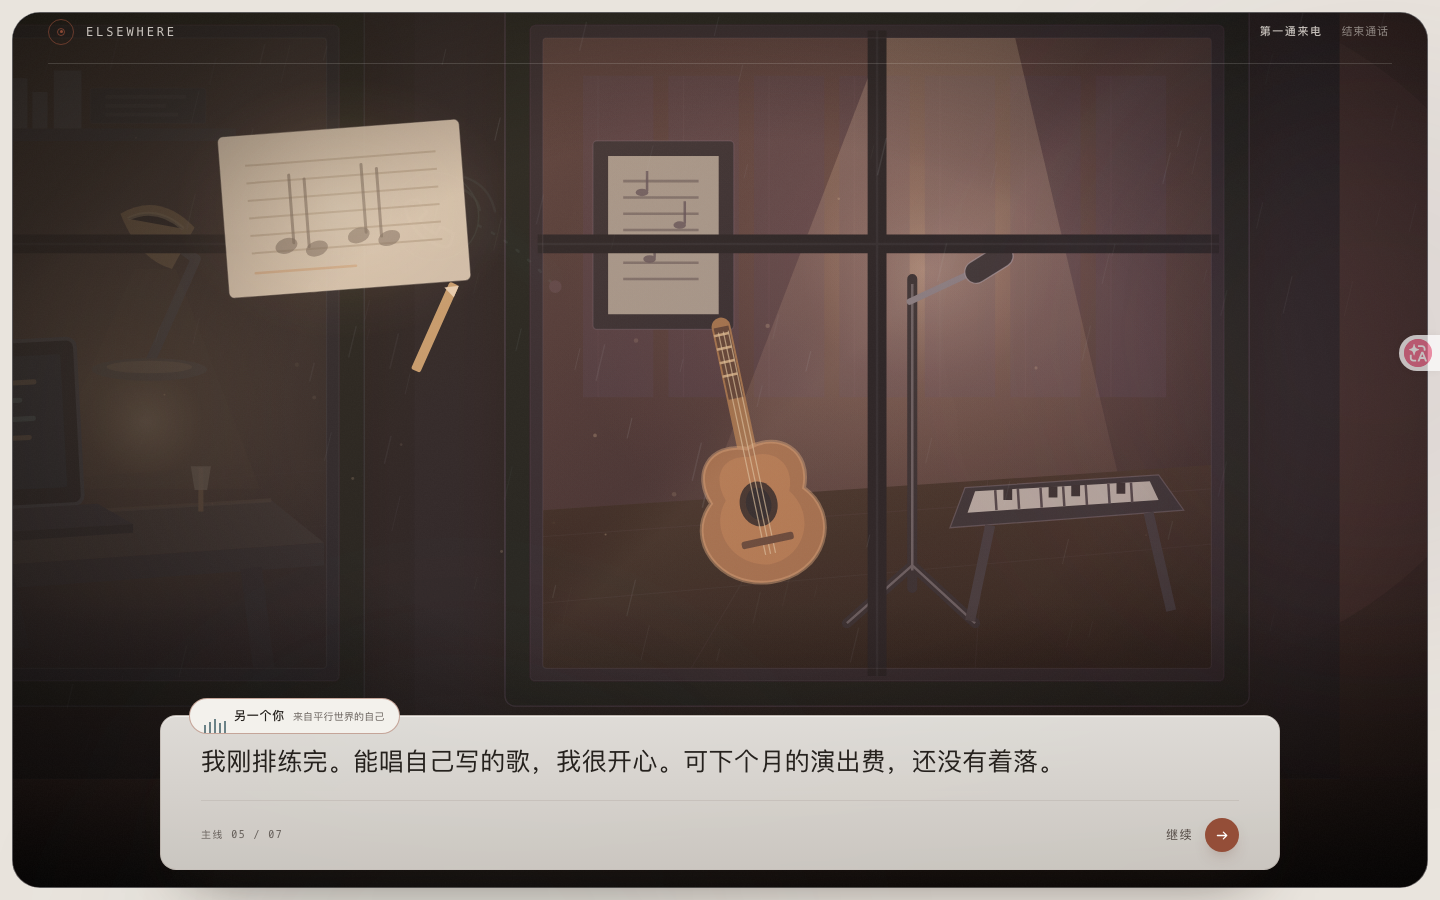
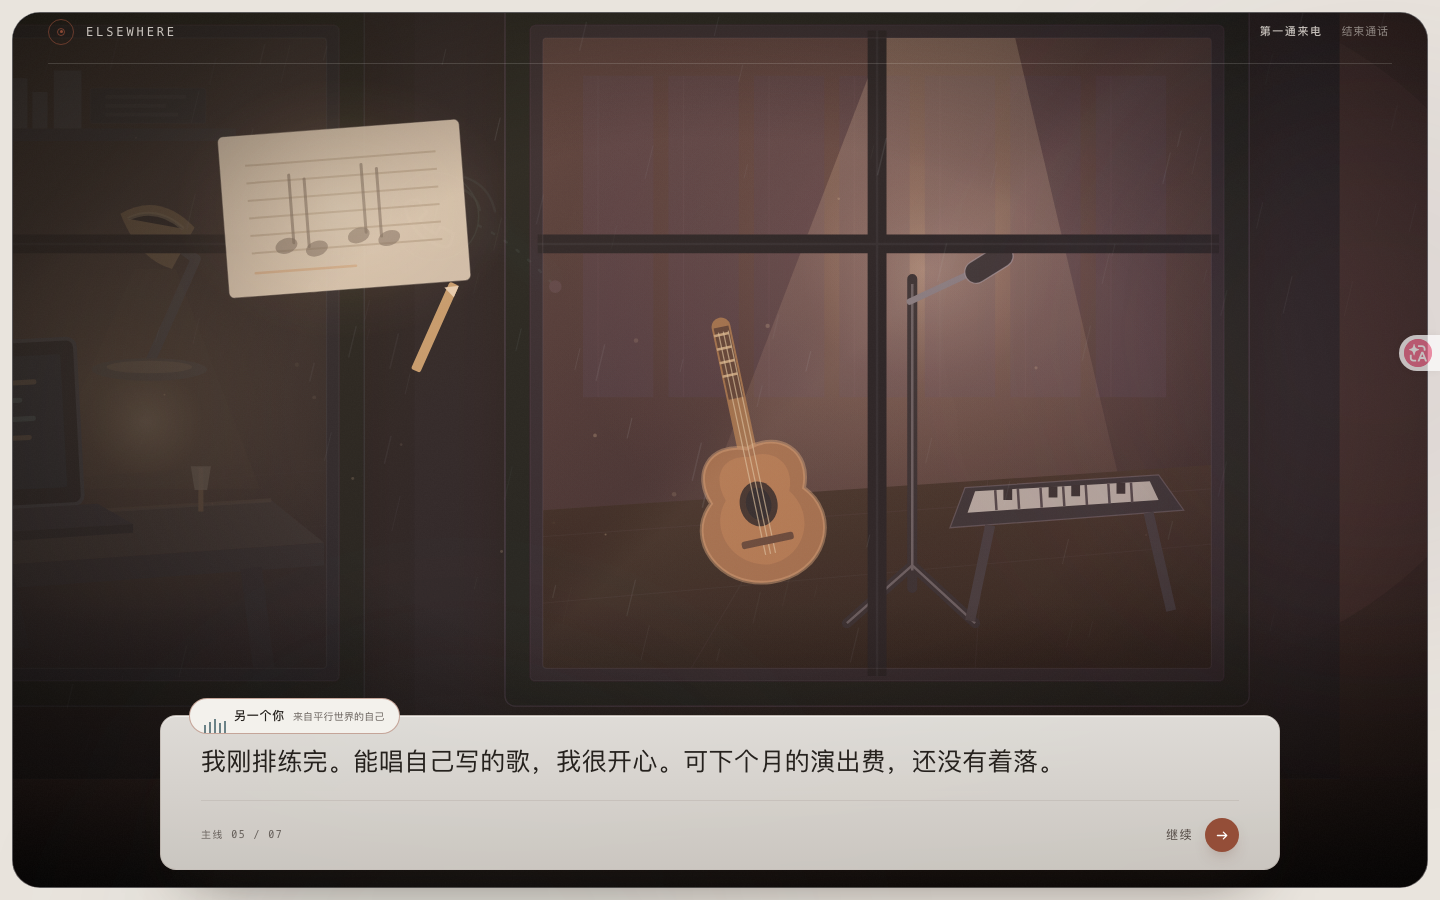
fix: keep one narrative prop per scene
The shared room template repeated the guitar, wall score, and desk lamp
beside the featured motif. Gate those room props by scene motif so each
scene shows one score, guitar, or lamp, while keeping the two-room
contrast and the intentional pair of photos in the doubt scene.

Changed region(s): [[0.4062, 0.1556, 0.5312, 0.3733]]

diff --git a/tasks/reports/TASK-003.md b/tasks/reports/TASK-003.md
@@ -777,3 +777,60 @@ git restore --source=9a867c8 -- src/components/SceneWhispers.tsx src/index.css
 - 首页命中区为避开 1024×768 的阅读面板，下沿停在吉他下侧，未覆盖面板下方的空白画面。
 - 该交互只在桌面鼠标/触控笔与键盘出现，没有手机触摸替代；未使用实体手机或平板，未在 Safari/Firefox 实测，未运行真实读屏（可访问性结论来自 Chromium 可访问性树）。
 - 本轮重跑 Galgame 布局与场景动效检查时，重新生成了对应截图和 JSON（不再包含小点）；本改动尚未经 Codex 复审，不据此自称 PASS；未合并 main、未部署、未进入下一任务。
+
+## 33. 重复道具清理（场景母题只保留一份）
+
+日期：2026-11-20（Asia/Shanghai）。团队在查看画面后指出“为什么有几个画面有两个相同的东西”，确认后要求“重复道具清理”。本轮只调整场景插画的共享房间道具，不改辉光交互、剧情、文案、布局和手机端规则；舞台母题（乐谱、吉他、台灯）在每张画面里只保留一份。
+
+### 处理原则
+
+左右两间房是“现实 / 平行世界”的双联构图，窗、桌、书架、显示器等房间家具会成对出现，这是刻意保留的对照关系。清理的是**同一类叙事母题的重复**：当画面中央已经有乐谱、吉他或台灯时，不再让共享房间里出现第二件同类物件。
+
+| 画面 | 重复来源 | 处理 |
+| --- | --- | --- |
+| rehearsal / music | 右房墙上固定挂一张装饰乐谱，画面中央又有一张乐谱或浮动五线谱 | 隐藏墙上装饰乐谱，只留中央母题 |
+| regret / make-space | 右房固定放一把吉他，中央母题又有一把 | 隐藏右房吉他，只留中央吉他 |
+| ending-regret-space / ending-cherish-space | 同上的“留出空间”母题叠加右房吉他 | 隐藏右房吉他 |
+| cherish / cherish-morning | 左房书桌有一盏台灯，中央又有一盏落地灯 | 隐藏书桌台灯，只留中央落地灯 |
+
+### 实现
+
+- [scripts/generate-backgrounds.mjs](../../scripts/generate-backgrounds.mjs) 把书桌台灯、墙上乐谱、右房吉他拆成独立片段，房间函数接收开关：`leftRoom({ showLamp })`、`rightRoom({ showSheet, showGuitar })`。
+- `renderScene` 按母题推导开关：`sheet` / `music` 隐藏墙上乐谱；`guitar` / `space` 隐藏右房吉他；`lamp` 隐藏书桌台灯。其余画面保持原样。
+- 重新生成全部 24 张 SVG，只有 8 张受影响：`rehearsal`、`music`、`regret`、`make-space`、`ending-regret-space`、`ending-cherish-space`、`cherish`、`cherish-morning`；其余 16 张逐字节未变。
+- 清理后逐张检查：排练/音乐各 1 份乐谱，后悔/留出空间/两种结局各 1 把吉他，珍惜/珍惜清晨各 1 盏灯。
+- 质疑画面的两张拍立得**保留**：台词即“两张照片，背面写着同一天”，属于剧情线索，不是重复道具。
+- 共享房间的窗、桌、灯位等对照关系不变；只移除与母题撞车的物件。
+
+### 本轮验证
+
+环境同第 32 节，生产预览 `http://127.0.0.1:4173/`（本轮构建产物）。命令均退出 0：
+
+| 检查 | 实际结果 | 原始输出 |
+| --- | --- | --- |
+| `npm run typecheck` | `tsc --noEmit` 通过 | [dedup-typecheck.txt](assets/TASK-003/dedup-typecheck.txt) |
+| `npm run test:story` | 15/15 通过，0 failed | [dedup-test-story.txt](assets/TASK-003/dedup-test-story.txt) |
+| `npm run build` | 20 modules；CSS 38.69 kB / gzip 8.77 kB；JS 249.22 kB / gzip 78.07 kB | [dedup-build.txt](assets/TASK-003/dedup-build.txt) |
+| 低语交互检查 | 19 项全部通过，`failures` / `consoleEvents` 均为 `[]`；排练边缘光仍贴住唯一一张乐谱 | [glow-checks.json](assets/TASK-003/glow-checks.json) |
+| Galgame 布局检查 | `all galgame layout checks passed` | [galgame-layout-checks.json](assets/TASK-003/galgame-layout-checks.json) |
+| 场景与动效检查 | `all scene and motion checks passed` | [scene-motion-checks.json](assets/TASK-003/scene-motion-checks.json) |
+
+场景画面已逐张目视：
+
+[排练：只剩中央乐谱](assets/TASK-003/dedup-rehearsal-1440.png) · [后悔：只剩中央吉他](assets/TASK-003/dedup-regret-1440.png) · [留出空间：只剩中央吉他](assets/TASK-003/dedup-make-space-1440.png) · [珍惜清晨：只剩中央落地灯](assets/TASK-003/dedup-cherish-morning-1440.png)
+
+应用内截图：[排练悬停（新背景）](assets/TASK-003/glow-rehearsal-hover-1440.png)、[后悔反馈 1440](assets/TASK-003/galgame-feedback-1440.png)、[行动反馈 1440](assets/TASK-003/galgame-feedback-action-1440.png)、[结局 1440](assets/TASK-003/galgame-ending-1440.png)、[珍惜清晨 390](assets/TASK-003/galgame-scene-cherish-morning-390.png)。
+
+### 备份与回退
+
+开始前已备份到 `/Users/zeh/Documents/elsewhere-backups/2026-11-20-pre-dedup/`：生成脚本、全部 `backgrounds/` SVG，以及基线提交 `af05de1`。回退：
+
+```bash
+git restore --source=af05de1 -- scripts/generate-backgrounds.mjs public/backgrounds
+```
+
+### 限制
+
+- 左右两间房的窗、桌、书架、显示器仍按双联构图成对出现；本轮没有把两间房彻底改成不同布局。
+- 质疑画面的两张拍立得、接听/追问/衔接的“电话图标 + 声波/波纹”属于剧情语义，未按重复道具清理。
+- 未使用实体手机或平板，未在 Safari/Firefox 实测。本轮改动尚未经 Codex 复审，不据此自称 PASS；未合并 main、未部署、未进入下一任务。
